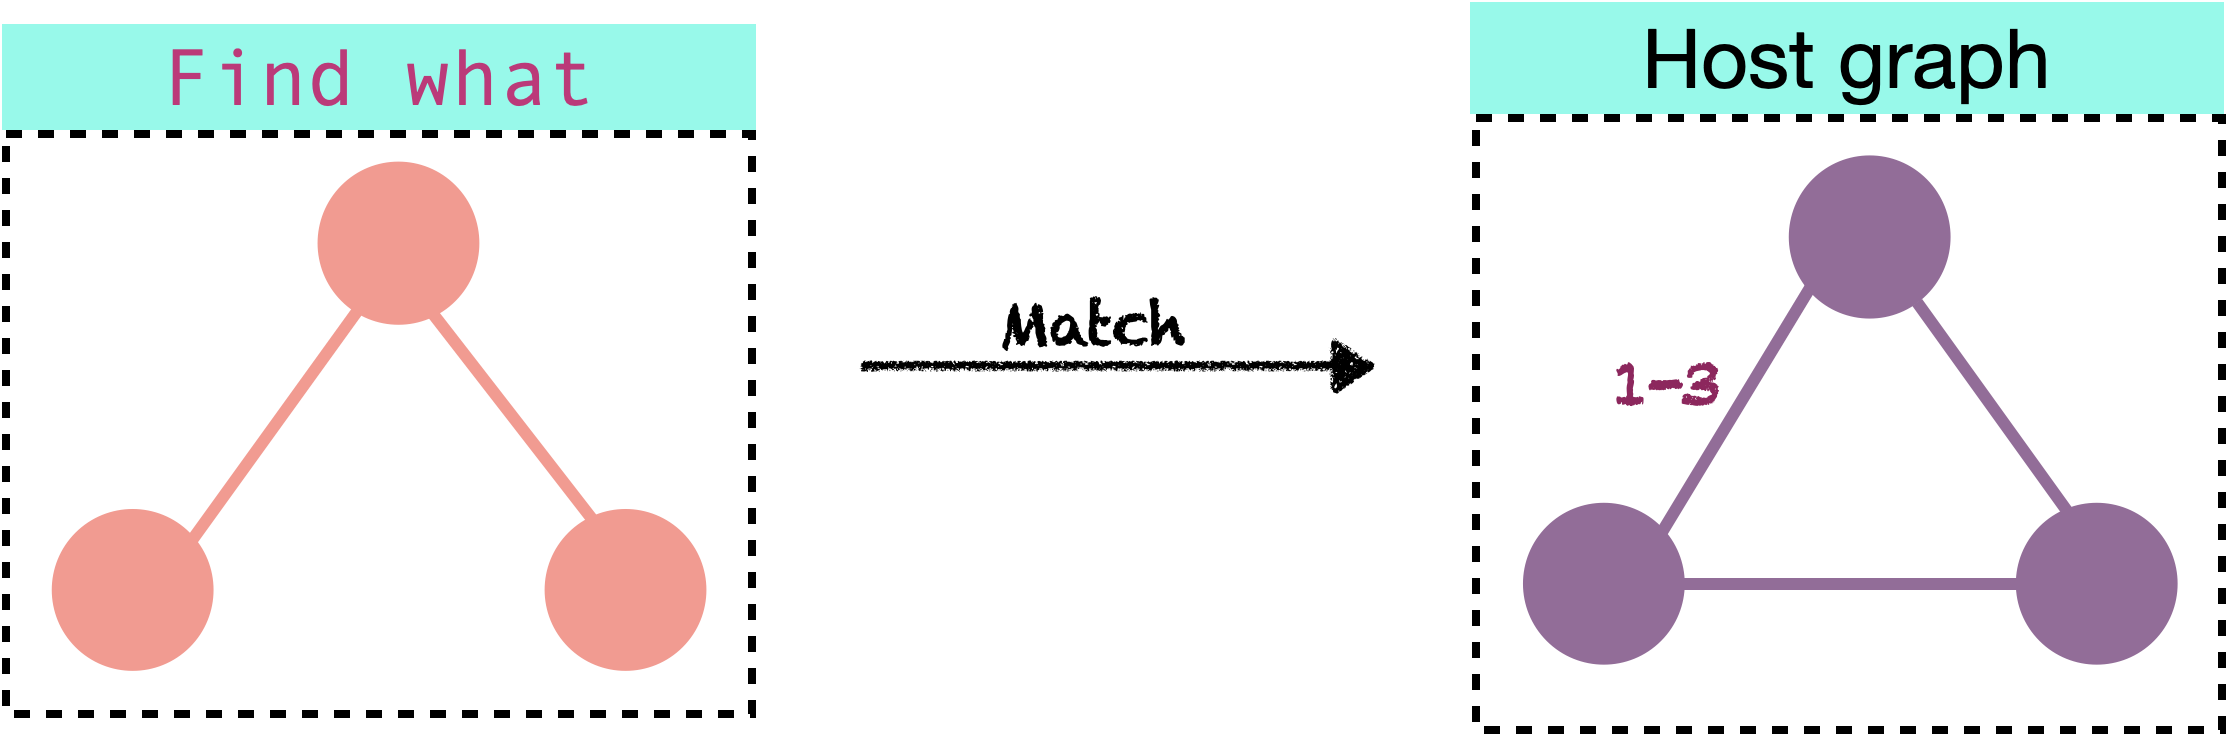
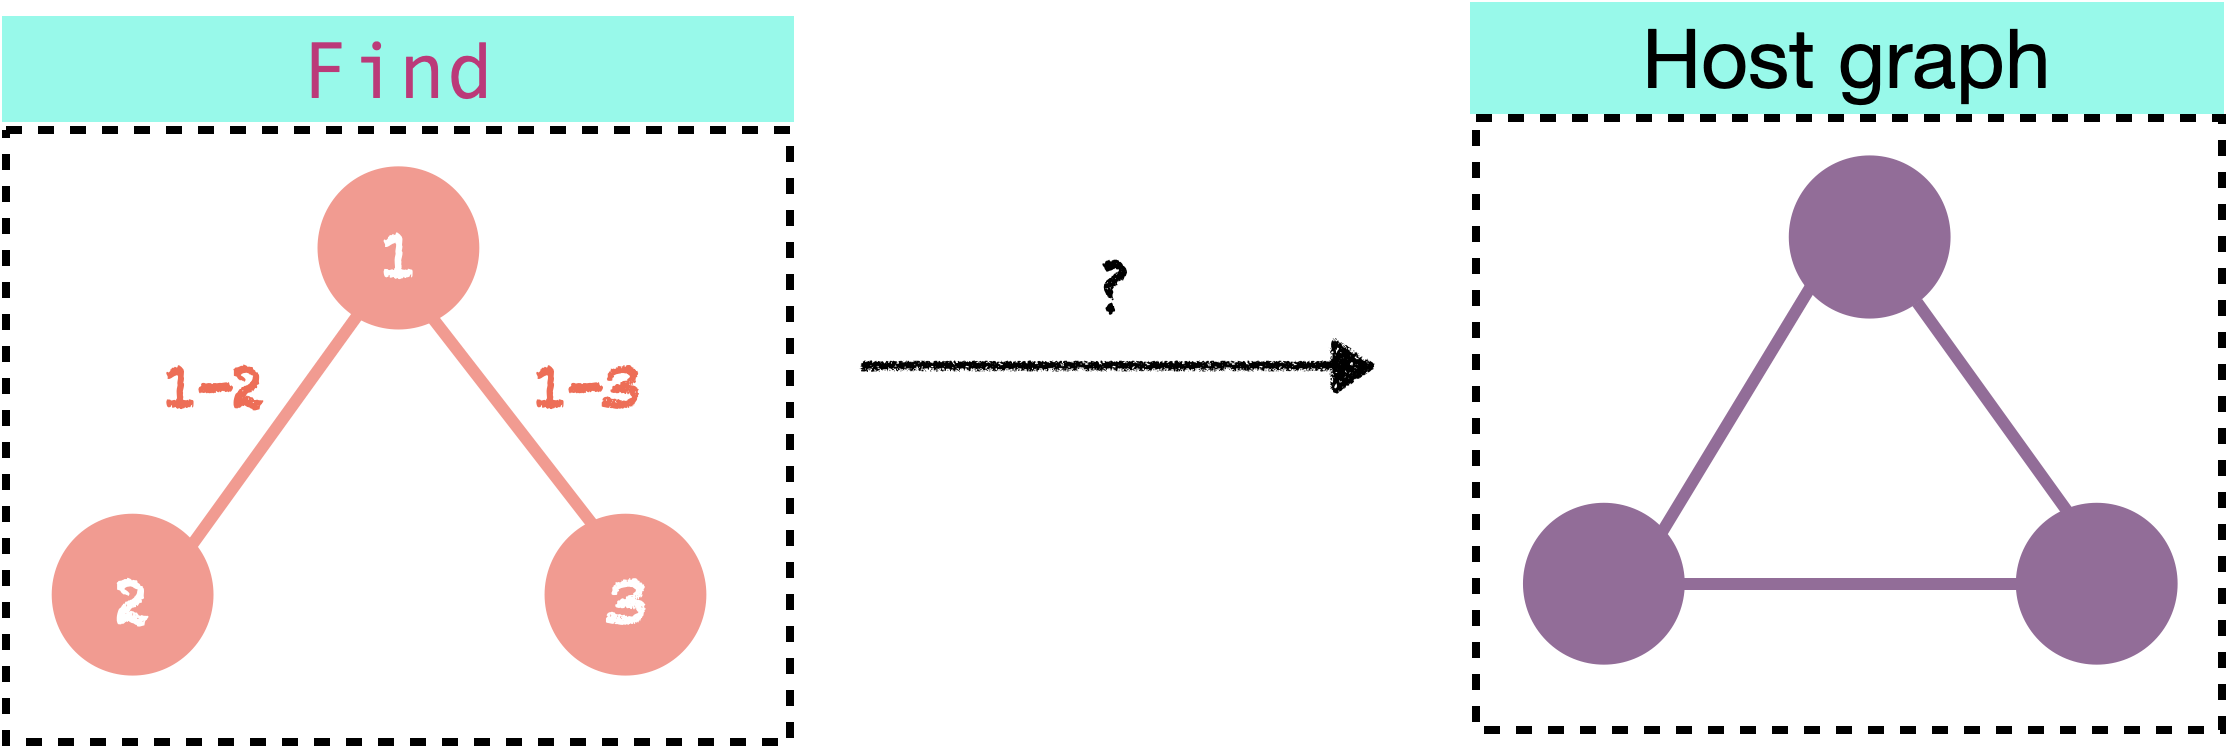
Ch 6: Sections 6.3 and 6.4 revision complete

diff --git a/chp6-dpo.md b/chp6-dpo.md
@@ -200,13 +200,13 @@ For replacement-1,
 
 Let us now have a closer look at the replacement procedure.
 
-During the replacement procedure, the vertices and edges of `Find` which do not overlap with `Replace` are removed from the match. For example, in the picture above, the self-loop of the search pattern is outside the overlap region. So, it is removed from the host graph at the match during the replacement procedure. Only those vertices and edges in the search pattern which overlap with the replacement are alone retained. From this view point, the morphism from `overlap` to `Find` is a **specification for deletion** (of vertices and edges at a match). 
+During the replacement procedure, the vertices and edges of `Find` which do not overlap with `Replace` are removed from the match. For example, in the picture above, the self-loop of the search pattern is outside the overlap region. So, it is removed from the host graph at the match during the replacement procedure. Only those vertices and edges in the search pattern which overlap with the replacement are alone retained. From this view point, the morphism from `overlap` to `Find` is a **rule for deletion** (of vertices and edges at a match). 
 
-During the replacement procedure, the vertices and the edges of (`Replace`) outside the overlap region are added to the host graph at the match. For example, in the picture above, the unlabelled vertices and edges of `Replace` are outside the overlap region. We could see that they are added to the host graph during the replacement. From this view point, the morphism from `overlap` to `Replace` is a **specification for addition** (of vertices and edges at a match).
+During the replacement procedure, the vertices and the edges of (`Replace`) outside the overlap region are added to the host graph at the match. For example, in the picture above, the unlabelled vertices and edges of `Replace` are outside the overlap region. We could see that they are added to the host graph during the replacement. From this view point, the morphism from `overlap` to `Replace` is a **rule for addition** (of vertices and edges at a match).
 
-Note that the `overlap` shape remains unchanged during the replacement. The overlap is precisely what remains after removing the edges/vertices of `Find` as per the specification. 
+Note that the `overlap` shape remains unchanged during the replacement. The overlap is precisely what remains after removing the edges/vertices of `Find` as per the deletion rule. 
 
-Thus, a specification for "find-and-replace" in graphs is as follows:
+Thus, a specification for "find-and-replace" in graphs consists of a deletion rule and an addition rule:
 
 ```{image} assets/Ch6/specification.png
 :alt: Whoopsy!
@@ -283,7 +283,7 @@ The interface to find-and-replace needs to have:
 
 ## 6.3 Finding a match
 
-The next step is to answer how to find a match of a search pattern inside a host graph, similar to finding some text in a document. When a text editor receives an input like this, it find (exact) matches of the string of characters "Happy Priyaa". 
+The next step is to answer how to find a match of `Find` inside a host graph, similar to finding some text in a document. When a text editor receives an input like this, it find (exact) matches of the string of characters "Happy Priyaa". 
 
 ```{image} assets/Ch6/find-and-replace-text.png
 :alt: Whoopsy!
@@ -291,11 +291,13 @@ The next step is to answer how to find a match of a search pattern inside a host
 :align: center
 ```
 
-However, in graph, connectivity matters than finding exact match of the shape of the search pattern. So when searching for pattern in a host graph, we do not look for 1-to-1 correspondence between vertices / edges of the `Find what`. Rather, we need to look for matches which have similar connectivity as the search pattern. Do the words "similar connectivity" a ring bell? Similar connectivity implies  graph morphism.
+However, in graph, **connectivity matters**. So when matching `Find` in a host graph, rather than an exact match, we look for matches which have similar connectivity as `Find`. Do the words "similar connectivity" a ring bell? Similar connectivity implies  graph morphism.
 
-<mark>A match is a graph morphism from `Find what` to a host.</mark>
+:::{admonition} What is a match?
+A match is a graph morphism from `Find` to a host host graph.
+:::
 
-Let us suppose we want to find a match of this search pattern in the host graph:
+Let us suppose we want to find a match `Find` in this host graph:
 
 ```{image} assets/Ch6/match.png
 :alt: Whoopsy!
@@ -306,10 +308,7 @@ Let us suppose we want to find a match of this search pattern in the host graph:
 </br>
 
 
-Here are two possible matches of the search pattern. The mapping (match) is shown using the labels on the vertices and the edges. 
-
-
-The below match is an injective morphism. 
+There are two possible matches. The mapping (match) is shown using matching labels for the vertices and the edges. 
 
 ```{image} assets/Ch6/match-example-1.png
 :alt: Whoopsy!
@@ -329,14 +328,12 @@ The below match, has vertices "1" and "2" in the search pattern, mapped to the s
 
 </br>
 
+The first match is an injective morphism whereas the second one isn't 
 
+Let us strengthen our understanding!
 
-:::::{admonition} Let us strengthen our understanding!
-:class: note
+:::{admonition} Puzzle 4
 
-::::{tab-set}
-
-:::{tab-item} Puzzle 3
 Find at least two matches of the search pattern in the host graph. 
 
 ````{div} wrapper 
@@ -347,15 +344,16 @@ Find at least two matches of the search pattern in the host graph.
 ```
 ````
 
+:::
 
-:::{admonition} Solution 
+:::{admonition} Solution for Puzzle 4
 :class: dropdown
 
 ````{div} wrapper 
 
 An exact match: 
 
-```{image} assets/Ch6/match-ex-sol1.png
+```{image} assets/Ch6/match-ex1-sol1.png
 :alt: Whoopsy!
 :width: 350px
 :align: center
@@ -363,62 +361,45 @@ An exact match:
 
 Non-injective match:
 
-```{image} assets/Ch6/match-ex-sol2.png
+```{image} assets/Ch6/match-ex1-sol2.png
 :alt: Whoopsy!
 :width: 350px
 :align: center
 ```
+As you notice, there can be many possible (or no) matches of `Find` in the host graph. 
+
 
 ````
 
 :::
 
-:::{tab-item} Puzzle 4
-
-(Same as Paul's Puzzle from chapter 1)
-
-How many matches (graph morphism) are from the ```Find what``` to the host graph? 
-
-```{div} wrapper 
-IMAGE
-```
-
-
-:::{admonition} Solution 
-:class: dropdown
-```{div} wrapper 
-IMAGE
-```
-
-:::
-
-::::
-
-:::::
 
 :::{admonition} Key points
 :class: tip
 
-A *match* in a host graph is given by a morphism from ```Find what``` to a host graph! 
+A *match* in a host graph is given by a morphism from ```Find``` to a host graph! There can be multiple or no match of `Find` in a host.
 
 :::
 
 ## 6.4 Removing vertices and edges from a graph
 
-We now have the specification for "find-and-replace" and the specification for a match. What remains is to perform the find-and-replace! We will begin with the deletion specification!
+We now know how to specify "find-and-replace" and how to specify a match. What remains is to apply these specifications to perform the find-and-replace! 
 
-$$ {\sf overlap} \hookrightarrow {\sf Find~what} $$
+```{image} assets/Ch6/deletion.png
+:alt: Whoopsy!
+:width: 350px
+:align: center
+```
 
+We will begin with the deletion, that is removing vertices and edges at the match!
 
 ### Finding a match to remove vertices/edges
 
-[Message: Tell what a good match is!]
-
-Erasing edges and vertices require care. Suppose a vertex in a match is specifed to be removed. There may be other vertices in the host graph which are connected to the vertex to be deleted. In that case, deleting the vertex will lead to zombie graphs which has edges not connected to any vertex. 
+Removing edges and vertices require care. Suppose, a vertex in a match is specifed to be removed. There may be edges which are connected to to this vertex in the host graph. In that case, deleting the vertex will lead to zombie graphs which has dangling edges (edges whose end(s) is not connected to any vertex). 
 
 The following example illustrates this situation. 
 
-Suppose, we have the following specification for deletion: vertex 2 and edge '2-3' will be deleted since they are not under the overlap region! 
+Suppose, we have the following rule for deletion: vertex 2 and edge '2-3' will be deleted (from the host at a match) since they do not overlap! 
 ```{image} assets/Ch6/remove-7.png
 :alt: Whoopsy!
 :width: 650px
@@ -426,7 +407,7 @@ Suppose, we have the following specification for deletion: vertex 2 and edge '2-
 ```
 </br>
 
-Can you see why the following match is bad even though it is a graph morphism? 
+Suppose we are given the following match of `Find` in a host graph. Can you see why this match is bad? 
 
 ```{image} assets/Ch6/bad-match-1.png
 :alt: Whoopsy!
@@ -443,17 +424,18 @@ Removing vertex 2 from the host graph will result in a dangling edge, see the di
 :align: center
 ```
 
-An appropriate match will be:
+An appropriate match that produces no dangling edge will be:
 
 ```{image} assets/Ch6/remove-8.png
 :alt: Whoopsy!
 :width: 550px
 :align: center
 ```
-
 </br>
 
-Another situation that needs care is that a match must not identify a vertex to be deleted and a vertex that needs to be retained (not to be deleted) in the search pattern to the same vertex in the host graph. By the deletion specification, vertex 1 must remain and vertex 2 needs to be deleted. However, the following match identifies vertices 1 and 2 of the search pattern to the same vertex ("1,2") in the host graph.
+For the above match, removing vertex '2' and edge '2-3' leaves the graph intact!
+
+Another situation that needs care is that a match must not identify a vertex to be deleted and a vertex that needs to be retained (a vertex which overlaps) of `Find` to the same vertex in the host graph. In the deletion rule, vertex 1 must be retained and vertex 2 needs to be deleted. However, the following match identifies vertices 1 and 2 of the search pattern to the same vertex ("1,2") in the host graph, which is bad!
 
 ```{image} assets/Ch6/identification-1.png
 :alt: Whoopsy!
@@ -462,7 +444,7 @@ Another situation that needs care is that a match must not identify a vertex to 
 ```
 </br>
 
-So what should be done now -- keep "1,2" or delete "1,2" from the host graph? A good match, in the first place, MUST avoid identifying 1 and 2 into the same bin since either choice is incorrect. 
+So what should be done now -- keep the vertex "1,2" or delete the vertex "1,2" from the host graph? Either choices are incorrect. A good match, in the first place, MUST avoid identifying vertices 1 and 2 of `Find` into the same vertex in the host graph. This is called the right identification condition.
 
 :::{admonition}  Key points
 :class: tip
@@ -473,14 +455,12 @@ So what should be done now -- keep "1,2" or delete "1,2" from the host graph? A 
 
 :::
 
-We will talk more about "finding a good match" once the algorithm to perform the deletion specification is set up.
+We will talk more about "finding a good match" once the algorithm to perform the deletion rule is set up.
 
 
 ### Performing deletion
 
-[Message: Tell deletion is computing pushout compelements]
-
-We are given a deletion specification, a host graph and a match for the search pattern in the host graph. As before, let us begin by making a diagram of the information we have.
+We now have a deletion rule, a host graph and a match for `Find` in the host graph. As before, let us draw a diagram of all the information we have:
 
 ```{image} assets/Ch6/remove-1.png
 :alt: Whoopsy!
@@ -490,11 +470,11 @@ We are given a deletion specification, a host graph and a match for the search p
 
 </br>
 
-The new graph which results after performing the replacement will have: 
-1. All the vertices and edges of the host graph which are outside the match, and
-2. Only those vertices and edges of the match which is also included in the overlap.
+The new graph which results after performing the replacement (deletion) will have: 
+1. All those vertices and edges in the host graph which are outside the match, and
+2. Only those vertices and edges inside the match which are under the `overlap` in `Find`.
    
-This means that `overlap` will have a match in the new graph **determined by the match found in the host graph**. The new graph will have an injective morphism into the host graph.
+This means that the `overlap` will have a match in the new graph **determined by the original match in the host graph**. The new graph will have an injective morphism into the host graph.
 
 </br>
 
@@ -505,9 +485,9 @@ This means that `overlap` will have a match in the new graph **determined by the
 ```
 </br>
 
-The above square commutes! Does this shape remind you of pushouts from chapter 5? It turns out that, the host graph is the pushout of `Find what` and the new graph!!
+The above square commutes! Does this shape remind you of pushouts from chapter 5? It turns out that, the host graph is the pushout of `Find` and the new graph!!
 
-This indeed makes sense, because, the search pattern includes vertices and edges which has been removed. Glueing together `Find what` and the and the new graph along the overlap msut give the original host graph!
+This indeed makes sense, because, `Find` includes vertices and edges which has been removed. Glueing together `Find` and the new graph along the overlap must give the original host graph!
 
 Since the new graph completes a pushout square we shall call it as the **Pushout complement**. 
 
@@ -529,7 +509,7 @@ Let us look at an example of computing "pushout **complement**"
 :align: center
 ```
 
-The nodes exclusive to `Find what` must be removed from the host graph. Thus, the pushout out complement must include: 
+The nodes exclusive to `Find` must be removed from the host graph. Thus, the pushout out complement must include: 
 1.  all the parts of the host graph not under the match, and 
 2.  only those parts of the match which is included in the overlap. 
 
@@ -550,8 +530,9 @@ This problem has a coarse-grain match. Vertices "1" and "2" of `Find what` are s
 :align: center
 ```
 
+:::
 
-:::{admonition} Solution
+:::{admonition} Solution for Puzzle 5
 :class: dropdown
 
 ````{div} wrapper 
@@ -574,9 +555,9 @@ What is the pushout complement?
 :width: 750px
 :align: center
 ```
+:::
 
-
-:::{admonition} Solution
+:::{admonition} Solution for Puzzle 6
 :class: dropdown
 
 The pushout complement includes all the edges and vertices in the host graph that is not under the match (all unlabelled vertices and edges),and includes those vertices and edges in the match which are in Graph-2.
@@ -595,24 +576,25 @@ The pushout complement includes all the edges and vertices in the host graph tha
 
 In programming, there is a concept called "edge case". These are special situations where a code will fail to produce appropriate results. For example, a bug that occurs in only iPhone. They are called "edge cases" because these situations lie outside the normal flow of a code / algorithm and custom extra code is added for their special handling. There is an anecdote, "Edge cases are impossible to avoid, so keep them simple". 
 
+Does our procedure to remove vertices and edges at a match have edge cases?
+
 :::{admonition} Million dollar questions:
 
-1. What will happen when a match that violates the "no-dangling edge" requirement is supplied for pushout-completement? 
+1. What will happen when a match that violates the "no-dangling edge" requirement is supplied for computing the pushout-complement? 
 
-2. What will happen when a match that violates the "right identification" requirement is supplied for pushout-completement? 
+2. What will happen when a match that violates the "right identification" requirement is supplied for computing the pushout-complement? 
 
 :::
 
-If the pushout-completement produces bad results, then these violations will be edge cases which needs to be handled outside the completement procedure -- like an algorithm to check if the match is appropriate. 
+If the pushout-completement produces bad results, then these violations will be edge cases which needs to be handled outside the completement procedure -- like writing an algorithm to first check if the match supplied is appropriate. 
 
-The good news is that the *universal nature* of pushouts guarantee us that pushout-complement will exist ONLY for appropraite matches!! That is, replacement will be done only when the match is appropriate. Hence, there are no edge cases!!! To drive home home this message, here are two examples. We leave it to the reader to check if a pushout complement exists in these cases. 
+The good news is that the *universal nature* of pushouts guarantee us that pushout-complement will exist ONLY for appropraite matches!! That is, replacement will be done only when the match is appropriate. Otherwise, the procedure will not proceed further! Thereby, there are no edge cases in our procedure!!! To drive home home this message, here are two examples. We leave it to the reader to check if a pushout complement exists in these cases. 
 
 :::{admonition} Example 2
 
-(Will be redrawn)
+(Need to be illustrated in the style matching above puzzles)
 
 Is there a pushout complement? If not, why?
-
 
 ````{div} wrapper 
 ```{image} assets/Ch6/dangling.png
@@ -643,7 +625,6 @@ Is there a pushout complement? If not, why?
 :::
 
 
-
 We did all the heavy lifting early-on by relying on relational thinking, considering all the relevant relationships, and getting the *plumbing* right! The pay off is that things flow smoothly without the need for extra intervention! 
 
 > The procedure is the guard rail! 
@@ -659,7 +640,7 @@ Vertices and edges of a graph is removed by computing pushout complement.
 
 ## 6.5 Adding vertices and edges to a graph
 
-We applied the deletion rule to remove the vertices and edges in the host graph as specified by the rule. We called the resulting graph a pushout complement.  We are now ready to add vertices and edges  specified by the addition rule to the pushout complement. That will complete our replacement procedure! Hurray! 
+We applied the deletion rule to remove vertices and edges from a host graph at the match. We called the resulting graph a pushout complement.  We are now ready to add vertices and edges specified by the addition rule. However, we will now work with the pushout complement we computed in the previous step. We first remove vertices and edges. We then add vertices and edges. That will complete our replacement procedure! Hurray! 
 
 As always, let us begin by drawing a diagram of the gre relationships we got! The advantage of drawing digrams is that it arranges information in an intuitive way that it makes it easier to "see" the solution! 
 
